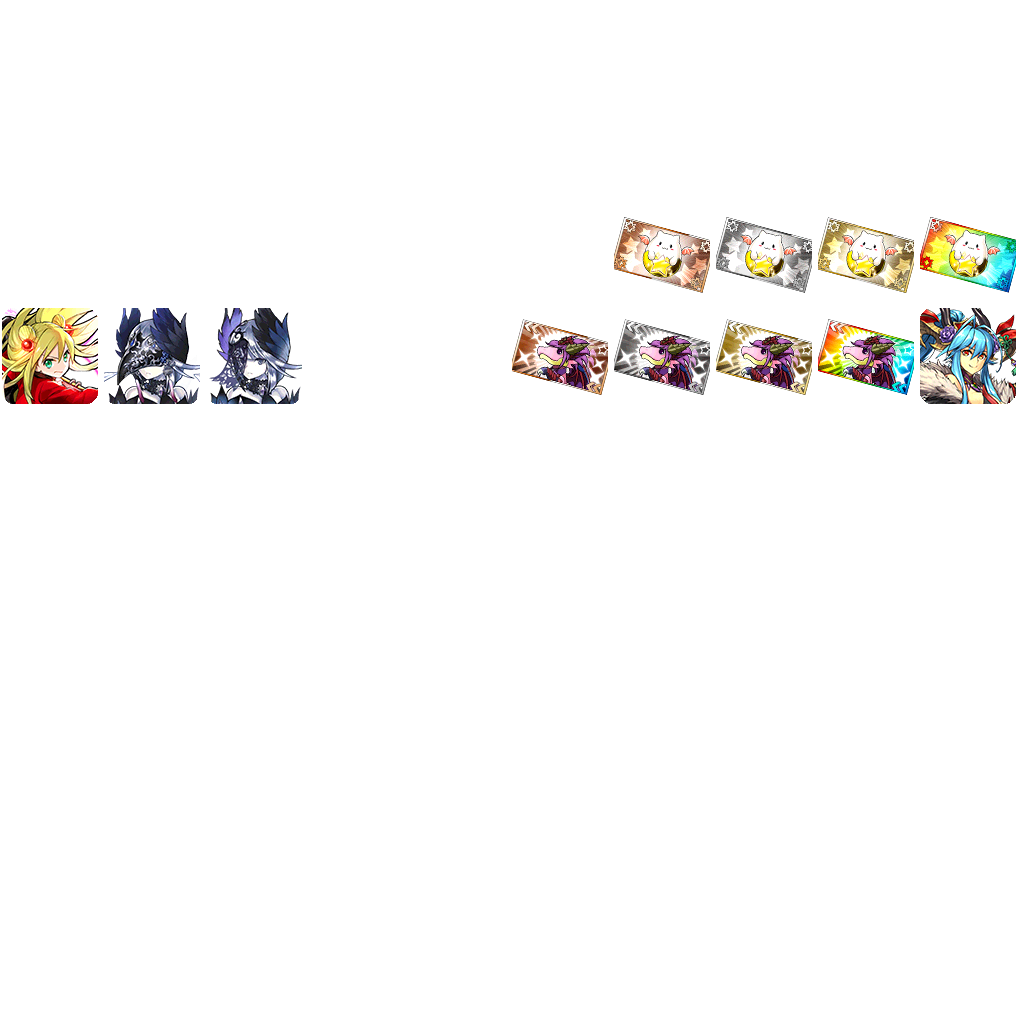
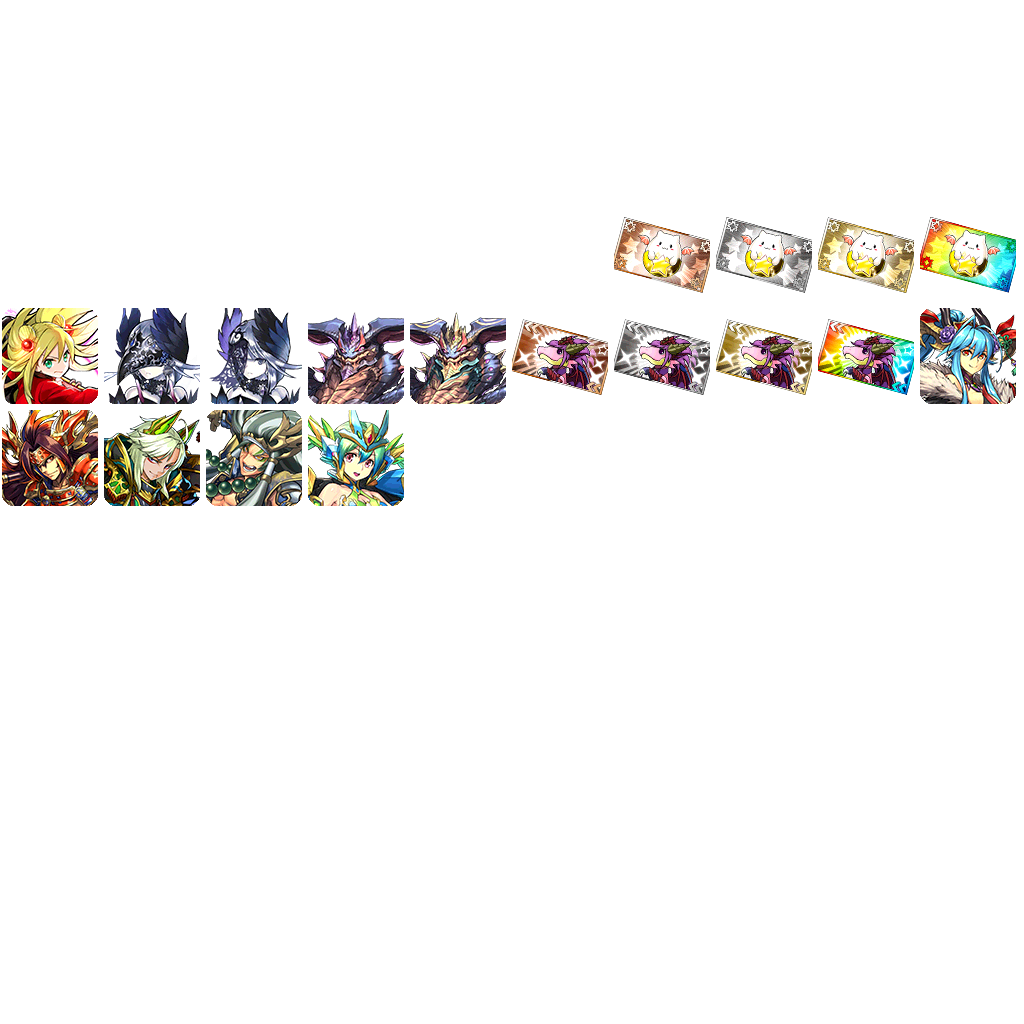
新增正月狩猎

Changed region(s): [[0.0, 0.3125, 0.5, 0.5]]

diff --git a/生成伤害吸收宠物JSON.js b/生成伤害吸收宠物JSON.js
@@ -74,6 +74,9 @@ var monsterList = [
         4847, //上杉謙信
         4848, //大義之龍將神・上杉謙信
     ]},
+    {group: "伤害吸收-正月狩猎",ids: [
+        5000, //初春的狩獵姬・阿緹蜜絲
+    ]},
     {group: "属性吸收-納兹",ids: [
         3605, //納兹
         3606, //火龍・納兹
